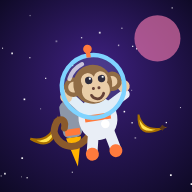
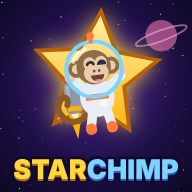
Add files via upload

diff --git a/sw.js b/sw.js
@@ -2,7 +2,7 @@
 //  StarChimp — Service Worker
 //  >>> A CADA NOVA VERSÃO, AUMENTE O NÚMERO ABAIXO <<<
 // ============================================================
-const VERSION = '2.1.0';
+const VERSION = '2.1.1';
 
 const CACHE = 'macaco-espacial-' + VERSION;
 const FILES = [

diff --git a/README.md b/README.md
@@ -1,5 +1,7 @@
 # 🐵 StarChimp — v2.1
 
+![StarChimp](starchimp-logo.png)
+
 Jogo infinito 2D com física: balance entre asteroides, fuja da tempestade solar e colete bananas!
 Funciona como app instalável (PWA) em Android e iPhone, inclusive sem internet.
 
